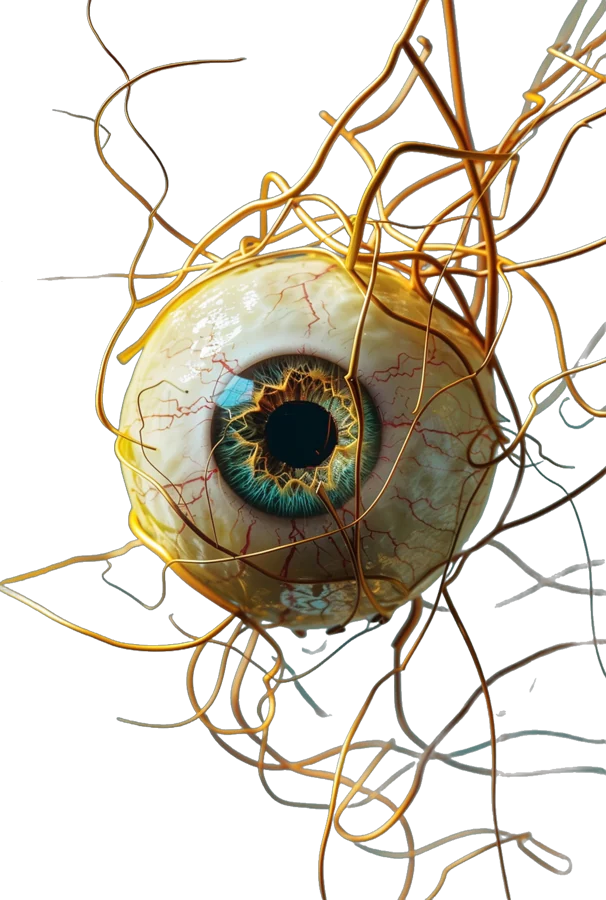
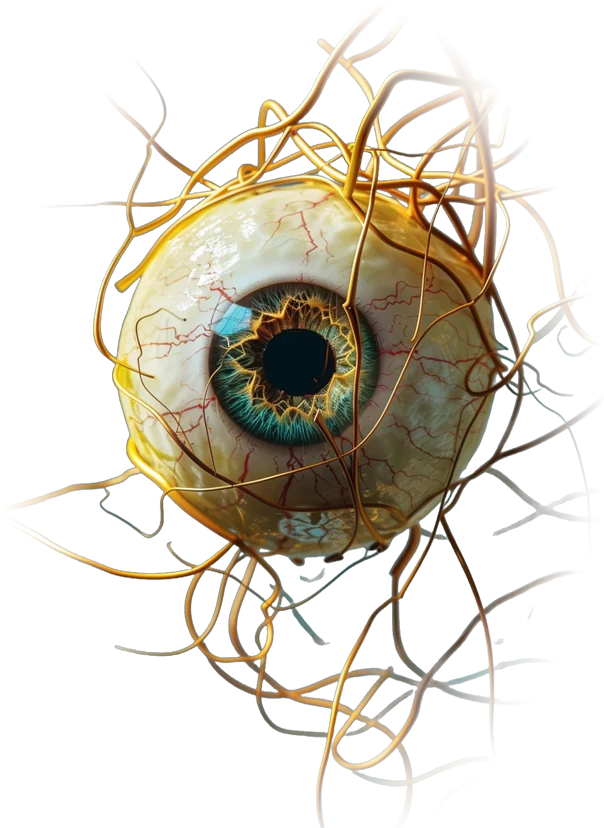
CTA reveal + sound-wave, clean headphones/eye cut-outs, bust into process collage
- CTA: background opens as a growing circle, letters rise, "noise." pulses like a sound wave; skulls card removed
- Re-cut headphones (no strap/puddle artifacts), feathered gold eye edges
- Neon bust moved into process collage; removed from work heading and clients wall
- Line reveals play once (fixes vanishing "Selected work" title)

Claude-Session: https://claude.ai/code/session_01WkFQr9y62zBA8xfT5vCMqy

diff --git a/index.html b/index.html
@@ -181,6 +181,7 @@ body::after{content:"";position:fixed;inset:-50%;z-index:90;pointer-events:none;
 .ps-eye{left:16%;top:8%;width:62%;z-index:3}
 .ps-eye .qp{perspective:700px}
 .ps-gir{left:66%;top:44%;width:28%;z-index:4}
+.ps-bust{left:-6%;top:50%;width:34%;z-index:4;filter:drop-shadow(0 24px 40px rgba(0,0,0,.5))}
 .proc-stage .ring{position:absolute;inset:0;pointer-events:none;z-index:5}
 .proc-stage .ring .spin{position:absolute;left:48%;top:42.5%;width:66%;aspect-ratio:1;margin:-33% 0 0 -33%}
 .proc-stage .ring svg{display:block;width:100%;height:100%;overflow:visible}
@@ -344,7 +345,8 @@ blockquote{margin:0}
 .email strong{font-size:clamp(24px,3vw,46px);font-weight:700;font-variation-settings:"wdth" 110;letter-spacing:-.02em;user-select:all}
 .copy{background:none;border:1px solid var(--line);border-radius:999px;padding:8px 14px;cursor:pointer;align-self:flex-start}
 .copy:hover{border-color:var(--hot);color:var(--hot)}
-.cta .skulls{position:absolute;right:-6vw;top:8%;width:min(46vw,640px);z-index:0;opacity:0}
+.cta h2 .ch,.cta h2 .wv{display:inline-block;transform-origin:50% 100%;will-change:transform}
+.cta .bg{will-change:clip-path}
 
 .btn{display:inline-flex;align-items:center;gap:12px;padding:16px 24px;border-radius:999px;font-weight:700;font-variation-settings:"wdth" 110;font-size:16px;transition:background .3s,color .3s}
 
@@ -500,7 +502,7 @@ footer{background:var(--ink)}
   </section>
 
   <section class="work" id="work">
-    <div class="work-head wrap"><img class="dc wk-bust" src="im/bust-l.webp" alt="" aria-hidden="true" loading="lazy" decoding="async">
+    <div class="work-head wrap">
       <h2 class="h-sec reveal">Selected <span class="serif">work</span></h2>
       <p class="mono" style="color:var(--mute);margin:0">Proof, not promises · 2025—2026</p>
     </div>
@@ -536,6 +538,7 @@ footer{background:var(--ink)}
         <div class="qs ps-orbit" data-d=".3"><div class="qp"><svg viewBox="0 0 600 160"><ellipse cx="300" cy="80" rx="292" ry="62" fill="none" stroke="#7C8CFF" stroke-width="1.2" stroke-dasharray="3 9" opacity=".8"/><ellipse cx="300" cy="80" rx="240" ry="44" fill="none" stroke="#F2ECEF" stroke-width=".8" opacity=".25"/><circle r="5" fill="#7C8CFF"><animateMotion dur="6s" repeatCount="indefinite" path="M8,80 a292,62 0 1,0 584,0 a292,62 0 1,0 -584,0"/></circle><circle r="3" fill="#FF2E63"><animateMotion dur="4s" repeatCount="indefinite" path="M592,80 a240,44 0 1,1 -480,0 a240,44 0 1,1 480,0"/></circle></svg></div></div>
         <div class="qs ps-eye qs-eye" data-d=".6"><div class="qp"><img src="im/eye-gold-cut.webp" alt="" loading="lazy" decoding="async"></div></div>
         <div class="ring"><div class="spin" id="ring"><svg viewBox="0 0 200 200" aria-hidden="true"><defs><path id="circ" d="M100,100 m-82,0 a82,82 0 1,1 164,0 a82,82 0 1,1 -164,0"/></defs><text><textPath href="#circ">look closer · look closer · look closer · look closer · look closer ·</textPath></text></svg></div></div>
+        <div class="qs ps-bust" data-d=".9"><div class="qp"><img src="im/bust-l.webp" alt="" loading="lazy" decoding="async"></div></div>
         <div class="qs ps-gir" data-d="1.1"><div class="qp"><img src="im/giraffe-cut.webp" alt="" loading="lazy" decoding="async"></div></div>
         <div class="qs qs-shadow" data-d=".1" style="top:92%"></div>
         <span class="qs qs-spark" data-d="1.3" style="left:10%;top:20%"></span>
@@ -617,7 +620,6 @@ footer{background:var(--ink)}
       <div class="cl-row" data-dir="1"><span class="o">HROM</span><i>✳</i><span>LUNA FM</span><i>✳</i><span class="o">SMAK</span><em>&amp;</em><span>ZORYA</span><i>✳</i><span class="o">MAMAI</span><i>✳</i><span class="o">HROM</span><i>✳</i><span>LUNA FM</span><i>✳</i><span class="o">SMAK</span><em>&amp;</em><span>ZORYA</span><i>✳</i><span class="o">MAMAI</span><i>✳</i></div>
       <div class="cl-row" data-dir="-1"><span>TYSHA</span><i>✳</i><span class="o">KHVYLIA</span><i>✳</i><span>DIM</span><em>&amp;</em><span class="o">PYL</span><i>✳</i><span>BORSCH LAB</span><i>✳</i><span>TYSHA</span><i>✳</i><span class="o">KHVYLIA</span><i>✳</i><span>DIM</span><em>&amp;</em><span class="o">PYL</span><i>✳</i><span>BORSCH LAB</span><i>✳</i></div>
     </div>
-    <img class="dc cl-bust" src="im/bust-r.webp" alt="" aria-hidden="true" loading="lazy" decoding="async">
     <img class="cl-cham" id="clCham" src="im/cham-cut.webp" alt="" aria-hidden="true" loading="lazy" decoding="async">
   </section>
 
@@ -663,7 +665,6 @@ footer{background:var(--ink)}
 
   <section class="cta" id="contact">
     <div class="bg" data-speed="0.15"><img src="im/cham-neon-1480.webp" srcset="im/cham-neon-900.webp 900w, im/cham-neon-1480.webp 1480w" sizes="100vw" alt="" loading="lazy" decoding="async"></div>
-    <img class="skulls" id="skulls" src="im/skulls-900.webp" alt="" loading="lazy" decoding="async">
     <div class="inner wrap">
       <p class="ask">Got a brand that deserves to be felt?</p>
       <h2>Let's make<span class="l2">noise.</span></h2>
@@ -894,7 +895,7 @@ footer{background:var(--ink)}
     if(!hasSplit)return;
     $$('.reveal').forEach(el=>{
       SplitText.create(el,{type:'lines',mask:'lines',linesClass:'split-line',autoSplit:true,onSplit(self){
-        return gsap.from(self.lines,{yPercent:105,duration:1.1,stagger:.09,ease:'expo.out',scrollTrigger:{trigger:el,start:'top 88%',toggleActions:'play none none reverse'}});
+        return gsap.from(self.lines,{yPercent:105,duration:1.1,stagger:.09,ease:'expo.out',scrollTrigger:{trigger:el,start:'top 88%',once:true}});
       }});
     });
   }
@@ -1048,8 +1049,18 @@ footer{background:var(--ink)}
   gsap.to('#hSkull',{y:-14,duration:2.2,ease:'sine.inOut',yoyo:true,repeat:-1});
   gsap.fromTo('#hSkull',{xPercent:0,rotation:-14},{xPercent:-30,rotation:16,ease:'none',scrollTrigger:{trigger:'#humans',start:'top bottom',end:'bottom top',scrub:1}});
   // ---------- CTA ----------
-  gsap.fromTo('#skulls',{autoAlpha:0,y:120,rotation:-8},{autoAlpha:.9,y:-60,rotation:4,ease:'none',scrollTrigger:{trigger:'#contact',start:'top 90%',end:'bottom bottom',scrub:true}});
-  gsap.fromTo('.cta h2 .l2',{xPercent:-20},{xPercent:0,ease:'none',scrollTrigger:{trigger:'.cta h2',start:'top bottom',end:'top 30%',scrub:true}});
+  // CTA: iris-open background, rising letters, "noise." sound-wave
+  (function cta(){
+    const h=$('.cta h2'),l2=h.querySelector('.l2');
+    const wrap=(node)=>{const t=node.nodeValue,f=document.createDocumentFragment();[...t].forEach(ch=>{const sp=document.createElement('span');sp.className='ch';const w=document.createElement('span');w.className='wv';w.textContent=ch===' '?'\u00a0':ch;sp.appendChild(w);f.appendChild(sp)});node.replaceWith(f)};
+    [...h.childNodes].forEach(n=>{if(n.nodeType===3)wrap(n)});[...l2.childNodes].forEach(n=>{if(n.nodeType===3)wrap(n)});
+    gsap.fromTo('#contact .bg',{clipPath:'circle(12% at 50% 60%)'},{clipPath:'circle(85% at 50% 50%)',ease:'none',scrollTrigger:{trigger:'#contact',start:'top 95%',end:'top 15%',scrub:1.2}});
+    gsap.fromTo('#contact .bg img',{scale:1.35,rotation:-3},{scale:1,rotation:0,ease:'none',scrollTrigger:{trigger:'#contact',start:'top bottom',end:'bottom bottom',scrub:1.2}});
+    gsap.fromTo('.cta h2 > .ch',{yPercent:110,rotation:8,autoAlpha:0},{yPercent:0,rotation:0,autoAlpha:1,stagger:.04,ease:'power3.out',scrollTrigger:{trigger:h,start:'top 90%',end:'top 45%',scrub:1}});
+    gsap.fromTo('.cta .l2 .ch',{yPercent:120,scaleY:1.6,autoAlpha:0},{yPercent:0,scaleY:1,autoAlpha:1,stagger:.05,ease:'power3.out',scrollTrigger:{trigger:h,start:'top 75%',end:'top 30%',scrub:1}});
+    gsap.to('.cta .l2 .wv',{scaleY:1.1,yPercent:-4,duration:1.4,ease:'sine.inOut',yoyo:true,repeat:-1,stagger:{each:.16,repeat:-1,yoyo:true},delay:1});
+    gsap.from('.cta .ask,.cta-row',{y:40,autoAlpha:0,duration:1.4,stagger:.15,ease:'expo.out',scrollTrigger:{trigger:'.cta-row',start:'top 92%',toggleActions:'play none none reverse'}});
+  })();
   gsap.fromTo('.big-foot span',{yPercent:105,rotation:i=>[-10,8,-6,9,-8,20][i]},{yPercent:0,rotation:0,duration:1.4,stagger:.08,ease:'expo.out',scrollTrigger:{trigger:'.big-foot',start:'top 92%',toggleActions:'play none none reverse'}});
 
   // ---------- POINTER ----------
